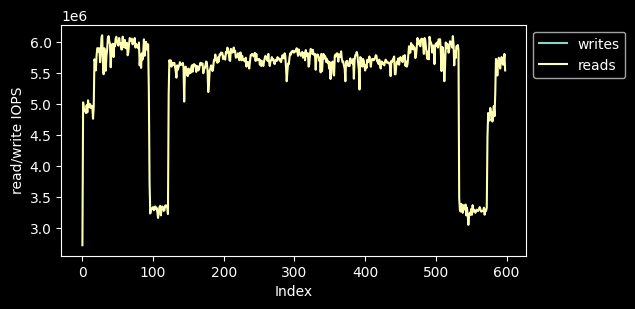
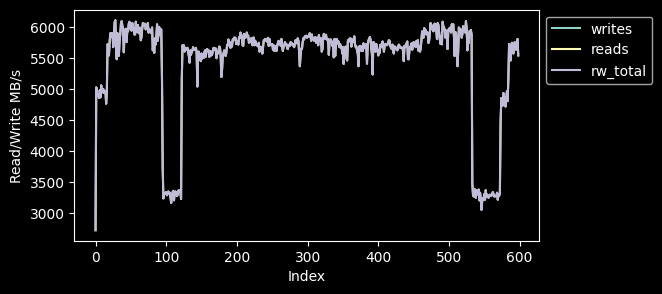
Add option to skip the aggregate chart

Changed region(s): [[0.0, 0.0306, 0.9874, 0.9796]]

diff --git a/fio_pandas.py b/fio_pandas.py
@@ -21,6 +21,8 @@ def main():
                         help="DPI of output",type=int)
     parser.add_argument("-s","--summary",action="store_true",
                         help="Sum up the log files and show the aggregate value")
+    parser.add_argument("--noagg",action="store_true",
+                        help="Do not show an aggregate view of read+writes")
     parser.add_argument("-d","--debug",action="store_true",
                         help="Debug")
     parser.add_argument("--table",action="store_true",
@@ -49,6 +51,11 @@ def main():
         # read in the file into a temporary dataframe.  
         if os.path.exists(filename):
             fiolog_tmp_df=pd.read_csv(filename)
+            # Bandwidth is reported by fio in KB/s we
+            # want MB/s at a minimum if the metric is bandwidth
+            if (metric == "bandwidth"):
+                #value is always column 1
+                fiolog_tmp_df.iloc[:,1]=fiolog_tmp_df.iloc[:,1]/1000
         else:
             print("File does not exist :",filename)
             exit()            
@@ -113,7 +120,11 @@ def main():
     if (not args.summary):
         df_read=df_read.drop(columns="read_total")
     ax=df_read.plot()
-    metric_name="read IOPS"
+
+    if (metric=='bandwidth'):
+        metric_name="Read MB/s"
+    else:        
+        metric_name="read IOPS"
     ax.legend(bbox_to_anchor = (1, 1))
     ax.set_xlabel("Index")
     ax.set_ylabel(metric_name)
@@ -124,7 +135,10 @@ def main():
     if (not args.summary):
         df_write=df_write.drop(columns="write_total")    
     ax=df_write.plot()
-    metric_name="write IOPS"
+    if (metric=='bandwidth'):
+        metric_name="Write MB/s"
+    else:        
+        metric_name="write IOPS"
     ax.legend(bbox_to_anchor = (1, 1))
     ax.set_xlabel("Index")
     ax.set_ylabel(metric_name)
@@ -136,7 +150,10 @@ def main():
         df_rw=df_rw.drop(columns="rw_total")    
     ax=df_rw.plot()
     ax.legend(bbox_to_anchor = (1, 1))
-    metric_name="read/write IOPS"
+    if (metric=='bandwidth'):
+        metric_name="Read/Write MB/s"
+    else:
+        metric_name="read/write IOPS"
     ax.set_xlabel("Index")
     ax.set_ylabel(metric_name)
     ax.figure.set_size_inches(6,3)
@@ -151,7 +168,8 @@ def main():
     if (not df_write.empty):
         subprocess.run(['/bin/bash','-i', '-c','-l', 'imgcat '+'write_tmp.png;true'])
     #Always show aggregate?    
-    subprocess.run(['/bin/bash','-i', '-c','-l', 'imgcat '+'aggregate_tmp.png;true'])
+    if (not args.noagg):
+        subprocess.run(['/bin/bash','-i', '-c','-l', 'imgcat '+'aggregate_tmp.png;true'])
     
     #Maybe print a summary table - useful if imgcat is not available
     if (args.table):
